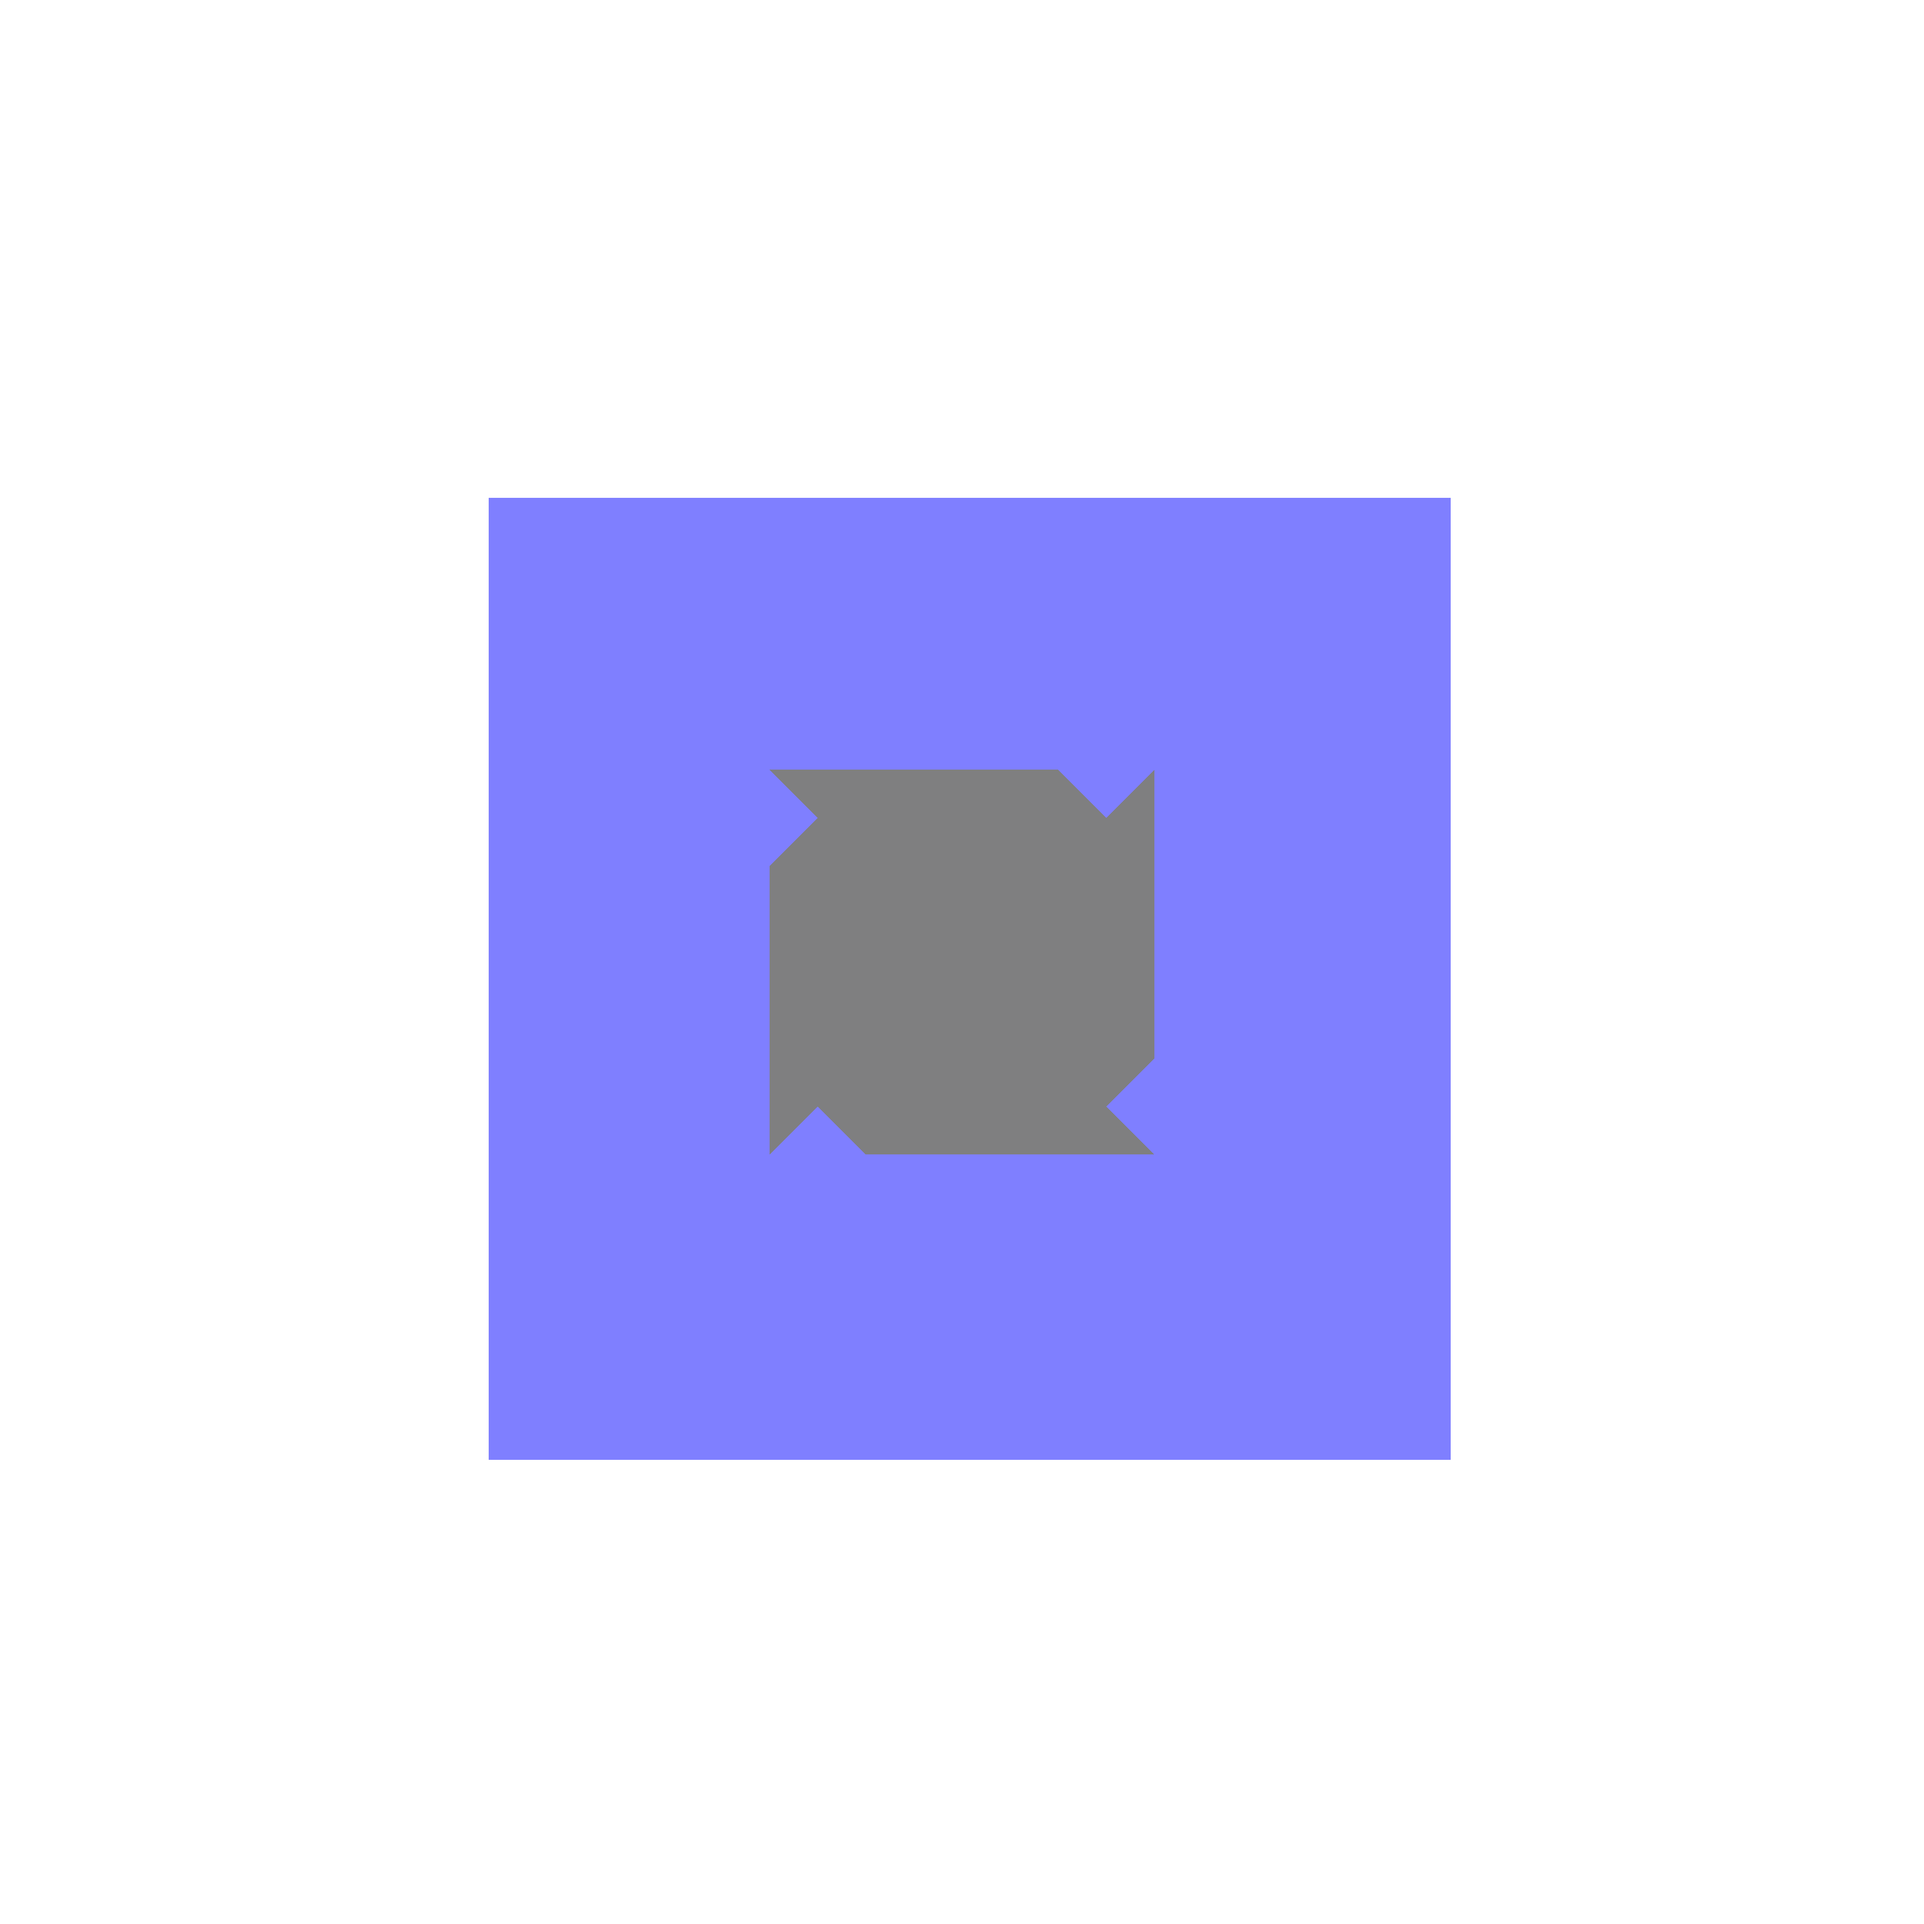
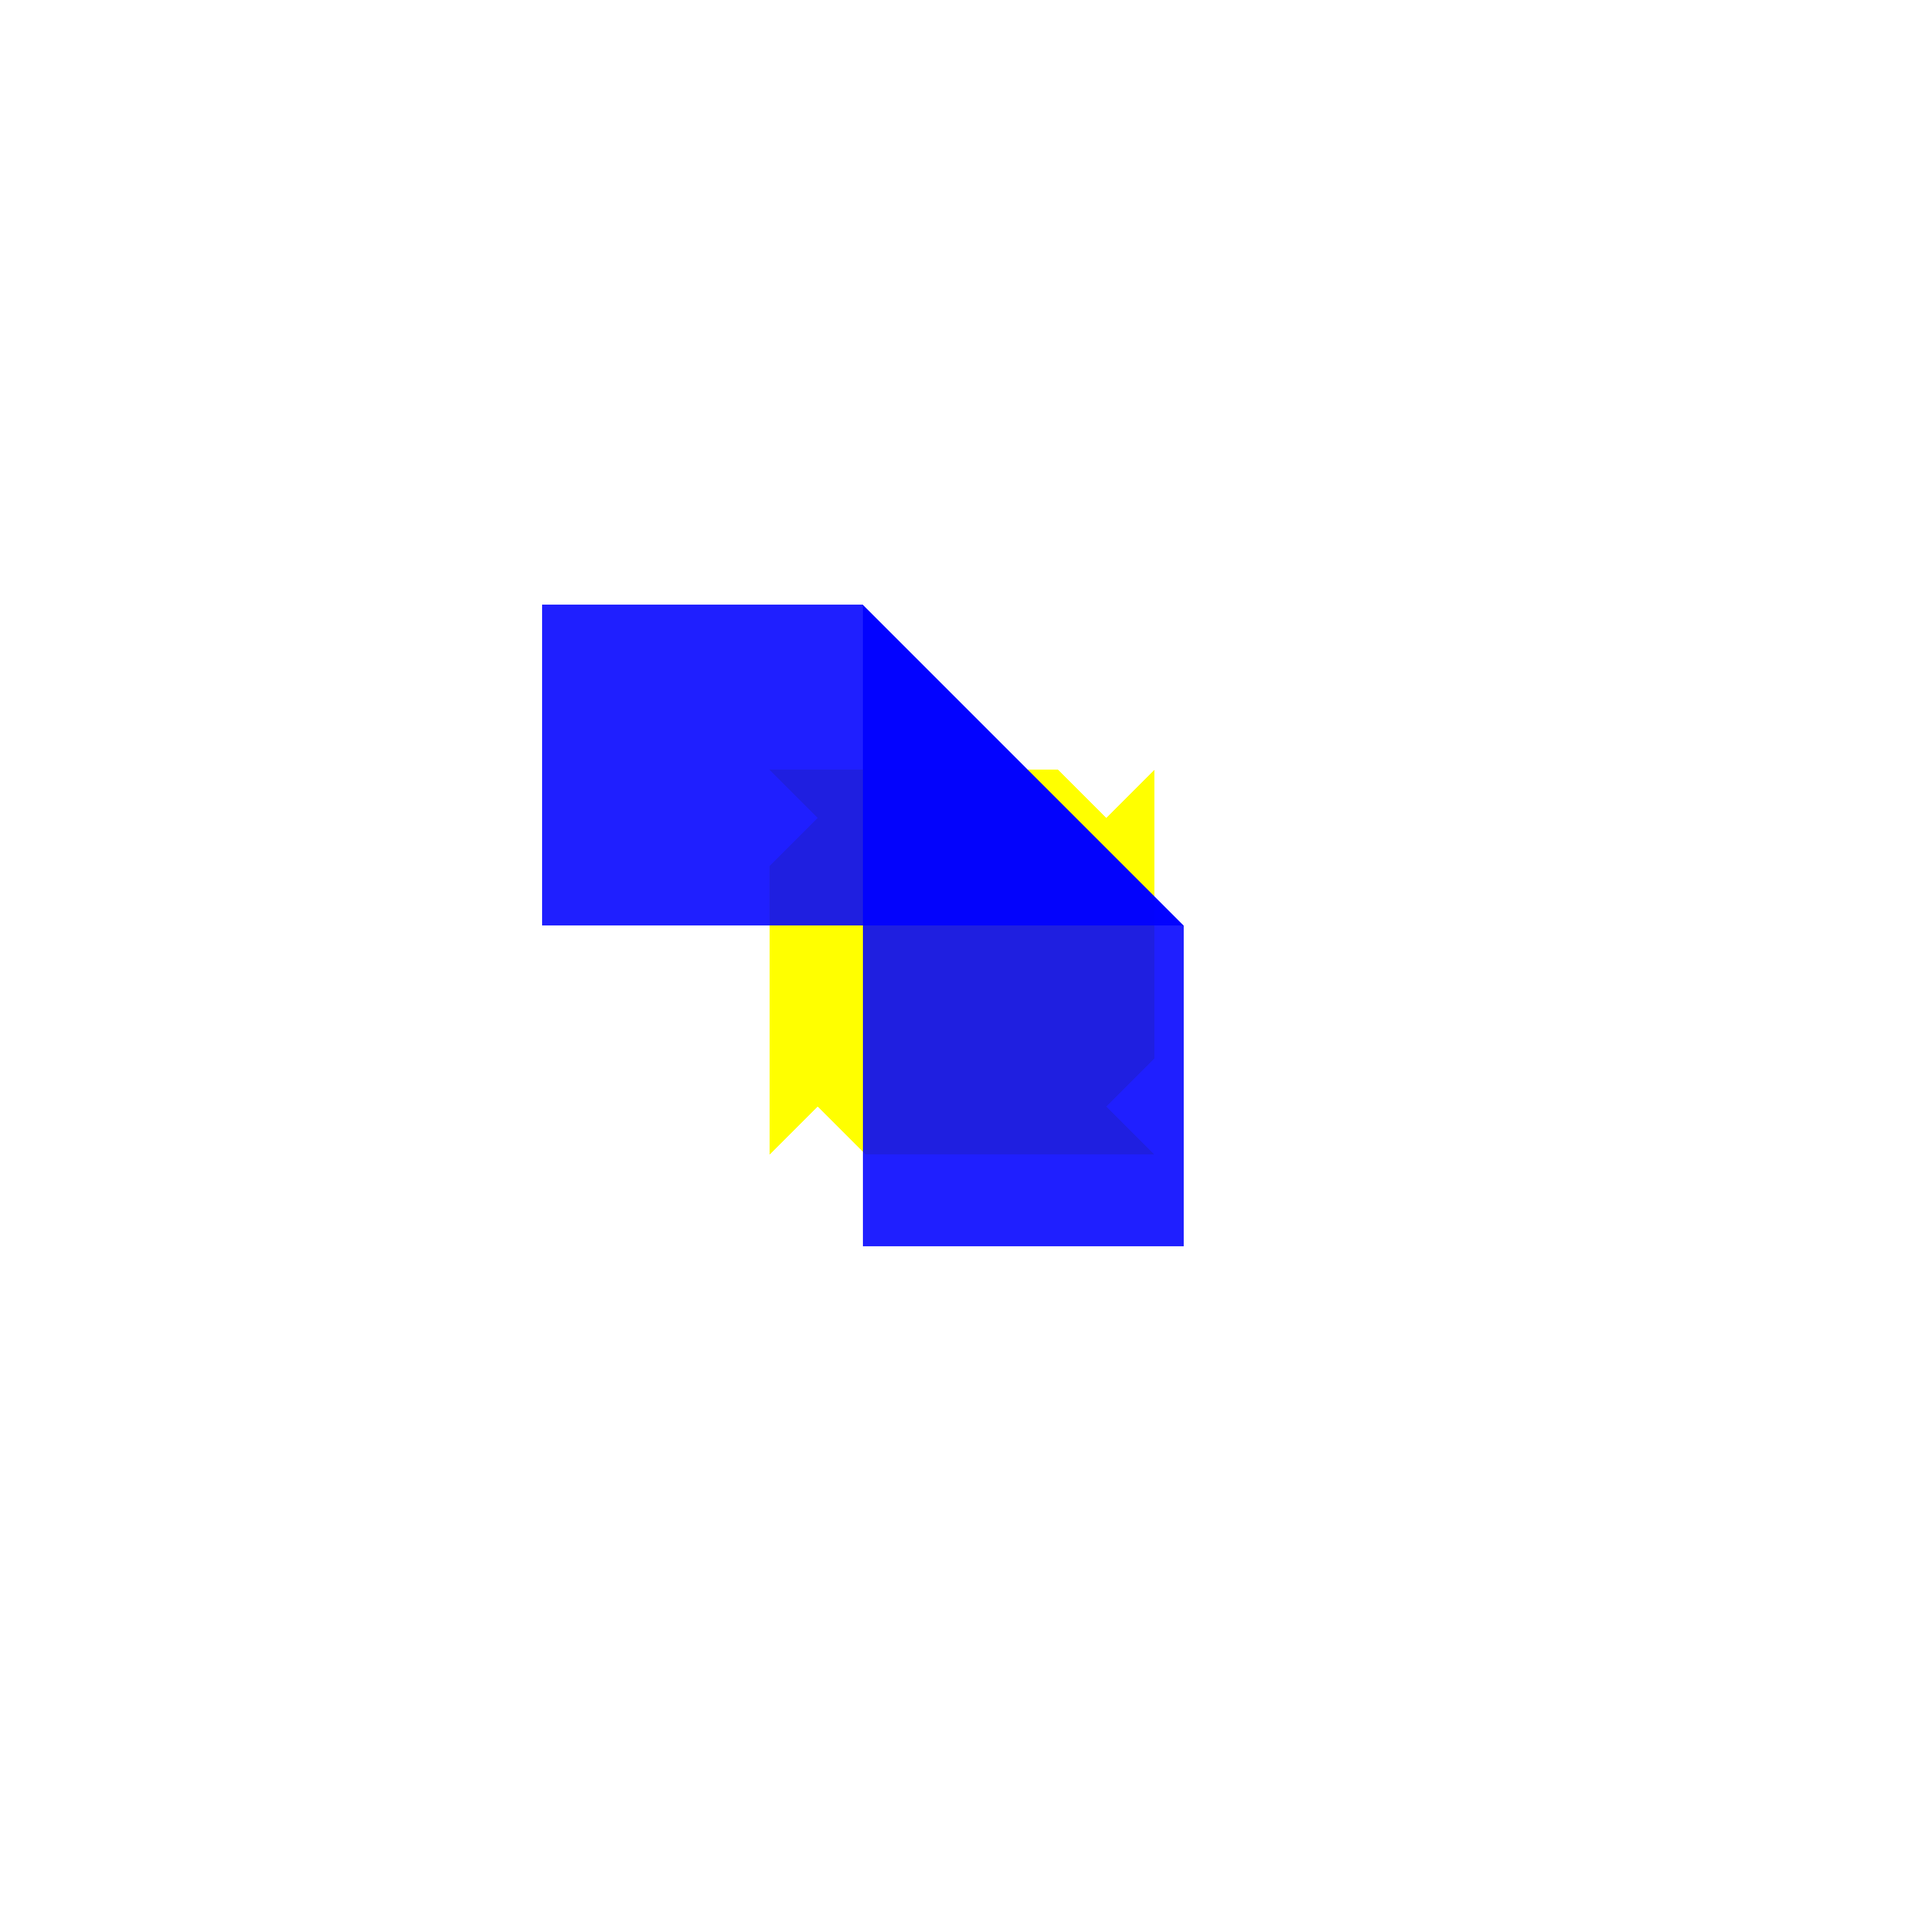
SequenceSolver with simple states from tasker

Changed region(s): [[0.25, 0.25, 0.7812, 0.7812]]

diff --git a/src/main/kotlin/icfp16/state/PublicStates.kt b/src/main/kotlin/icfp16/state/PublicStates.kt
@@ -1,0 +1,96 @@
+package icfp16.state
+
+import icfp16.data.Facet
+import icfp16.data.Fraction
+import icfp16.data.Vertex
+
+
+class PublicStates {
+
+  companion object {
+    val states: Array<State> = arrayOf(
+
+      // square
+      State(vertexes = arrayOf(
+        Vertex(Fraction(0), Fraction(0)),
+        Vertex(Fraction(0), Fraction(1)),
+        Vertex(Fraction(1), Fraction(1)),
+        Vertex(Fraction(1), Fraction(0))
+      ),
+        facets = arrayOf(
+          Facet(listOf(0, 1, 2, 3))
+        )
+      ),
+
+      // task 0
+      State(
+        arrayOf(
+          Vertex(0, 0),
+          Vertex(1, 0),
+          Vertex(Fraction(0), Fraction(1, 3)),
+          Vertex(Fraction(1), Fraction(1, 3)),
+          Vertex(Fraction(0), Fraction(2, 3)),
+          Vertex(Fraction(1), Fraction(2, 3)),
+          Vertex(0, 1),
+          Vertex(1, 1)
+        ),
+        arrayOf(
+          Facet(arrayListOf(0, 1, 3, 2)),
+          Facet(arrayListOf(2, 3, 5, 4)),
+          Facet(arrayListOf(4, 5, 7, 6))
+        ),
+        arrayOf(
+          Vertex(Fraction(0), Fraction(2, 3)),
+          Vertex(Fraction(1), Fraction(2, 3)),
+          Vertex(Fraction(0), Fraction(1, 3)),
+          Vertex(Fraction(1), Fraction(1, 3)),
+          Vertex(Fraction(0), Fraction(2, 3)),
+          Vertex(Fraction(1), Fraction(2, 3)),
+          Vertex(Fraction(0), Fraction(2, 3)),
+          Vertex(Fraction(1), Fraction(2, 3))
+        )
+      ),
+
+      // task 1
+      State(
+        arrayOf(
+          Vertex(0, 0),
+          Vertex(Fraction(2, 3), Fraction(0)),
+          Vertex(1, 0),
+          Vertex(Fraction(0), Fraction(1, 3)),
+          Vertex(Fraction(1, 3), Fraction(1, 3)),
+          Vertex(Fraction(1), Fraction(1, 3)),
+          Vertex(Fraction(0), Fraction(2, 3)),
+          Vertex(Fraction(2, 3), Fraction(2, 3)),
+          Vertex(Fraction(1), Fraction(2, 3)),
+          Vertex(0, 1),
+          Vertex(Fraction(1, 3), Fraction(1)),
+          Vertex(1, 1)
+        ),
+        arrayOf(
+          Facet(arrayListOf(0, 1, 4, 3)),
+          Facet(arrayListOf(1, 2, 5, 4)),
+          Facet(arrayListOf(3, 4, 7, 6)),
+          Facet(arrayListOf(4, 5, 8, 7)),
+          Facet(arrayListOf(6, 7, 10, 9)),
+          Facet(arrayListOf(7, 8, 11, 10))
+        ),
+        arrayOf(
+          Vertex(Fraction(0), Fraction(2, 3)),
+          Vertex(Fraction(2, 3), Fraction(2, 3)),
+          Vertex(Fraction(2, 3), Fraction(1)),
+          Vertex(Fraction(0), Fraction(1, 3)),
+          Vertex(Fraction(1, 3), Fraction(1, 3)),
+          Vertex(Fraction(1, 3), Fraction(1)),
+          Vertex(Fraction(0), Fraction(2, 3)),
+          Vertex(Fraction(2, 3), Fraction(2, 3)),
+          Vertex(Fraction(2, 3), Fraction(1)),
+          Vertex(Fraction(0), Fraction(1, 3)),
+          Vertex(Fraction(1, 3), Fraction(1, 3)),
+          Vertex(Fraction(1, 3), Fraction(1))
+        )
+      )
+    )
+  }
+
+}

diff --git a/src/main/kotlin/icfp16/solver/Solver.kt b/src/main/kotlin/icfp16/solver/Solver.kt
@@ -1,7 +1,8 @@
 package icfp16.solver
 
 import icfp16.data.*
-import icfp16.estimate.BitmapEstimator
+import icfp16.estimate.CompoundEstimator
+import icfp16.state.PublicStates
 import icfp16.state.State
 
 interface Solver {
@@ -34,20 +35,48 @@ class BetterTranslatorSolver : Solver {
     val vertexes = problem.poligons.flatMap { it.vertices }
     val centroid = massCentroid(vertexes)
 
-    val translation = centroid.add(Vertex(Fraction(-1, 2), Fraction(-1, 2)))
+    val stateCentroid = Vertex(Fraction(-1, 2), Fraction(-1, 2))
+    val translation = centroid.add(stateCentroid)
     val initialSquare = State.initialSquare()
     val translatedSolve = initialSquare.translate(translation)
     return translatedSolve
   }
 }
 
+
+class SequenceSolver: Solver {
+  override fun solve(problem: Problem): State {
+
+    val vertexes = problem.poligons.flatMap { it.vertices }
+    val problemCentroid = massCentroid(vertexes)
+
+    val bestState = PublicStates.states
+      .map { s ->
+        // translate S many times
+        val stateCentroid = massCentroid(s.finalPositions.asList())
+        val translation = problemCentroid.sub(stateCentroid)
+        val translatedState = s.translate(translation)
+        translatedState
+      }
+      .flatMap { s ->
+        // list of all transformations of state
+        listOf<State>(s)
+      }
+      .map { it.to(CompoundEstimator().resemblanceOf(problem, it, quality = 4)) }
+      .sortedBy { it.second }
+      .last().first
+
+    return bestState
+  }
+}
+
 class BestSolverEver: Solver {
 
   override fun solve(problem: Problem): State {
-    val solvers = arrayOf<Solver>(StupidSolver(), TranslatorSolver(), BetterTranslatorSolver())
+    val solvers = arrayOf<Solver>(StupidSolver(), TranslatorSolver(), BetterTranslatorSolver(), SequenceSolver())
     val states =  solvers
         .map { it.solve(problem) }
-        .map { it.to(BitmapEstimator().resemblanceOf(problem, it, quality = 4)) }
+        .map { it.to(CompoundEstimator().resemblanceOf(problem, it, quality = 4)) }
     val sorted = states.sortedBy { it.second }
     return sorted.last().first
   }

diff --git a/src/main/kotlin/icfp16/data/Arifmetics.kt b/src/main/kotlin/icfp16/data/Arifmetics.kt
@@ -72,6 +72,10 @@ fun Vertex.add(v: Vertex): Vertex {
   return Vertex(this.x.add(v.x), this.y.add(v.y))
 }
 
+fun Vertex.sub(v: Vertex): Vertex {
+  return Vertex(this.x.sub(v.x), this.y.sub(v.y))
+}
+
 
 fun Vertex.div(v: Int): Vertex {
   return Vertex(this.x.div(v), this.y.div(v))
